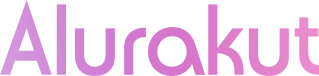
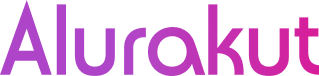
Update the Login Image

diff --git a/pages/login.js b/pages/login.js
@@ -11,7 +11,7 @@ export default function loginPage() {
         <main style={{ display: 'flex', flex: 1, alignItems: 'center', justifyContent: 'center' }}>
           <div className="loginScreen">
             <section className="logoArea">
-              <img src="https://www.datocms-assets.com/52468/1626735344-alurakut-login.png" />
+              <img src="https://www.datocms-assets.com/52468/1626752949-alurakut-login.png" />
     
               <p><strong>Conecte-se</strong> aos seus amigos e familiares usando recados e mensagens instantâneas</p>
               <p><strong>Conheça</strong> novas pessoas através de amigos de seus amigos e comunidades</p>
